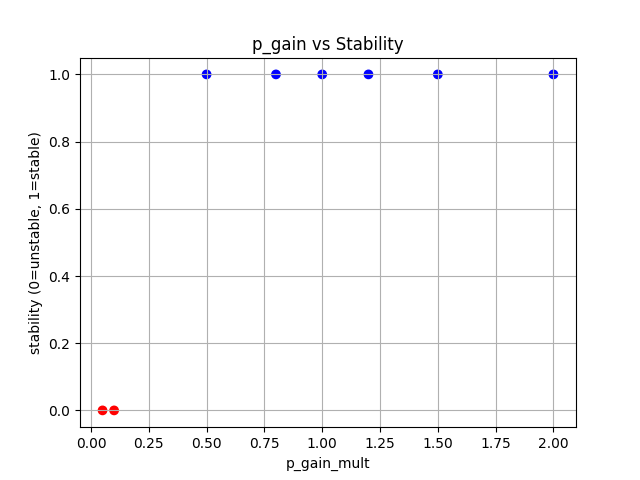
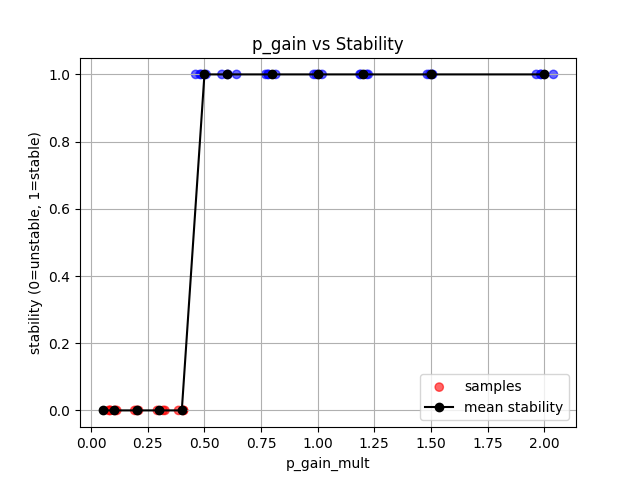
📊 시각화 개선: jitter + 평균선 추가

diff --git a/src/plot_results.py b/src/plot_results.py
@@ -1,21 +1,28 @@
-import pandas as pd
 import matplotlib.pyplot as plt
+import numpy as np
+import pandas as pd
 
-# 데이터 로드
 df = pd.read_csv("data/processed/labels.csv")
 
-# 산점도
-plt.figure()
+x = df["p_gain_mult"]
+y = df["stable"]
 
-# stable=1 파란색, unstable=0 빨간색
-colors = df["stable"].map({1: "blue", 0: "red"})
+# jitter
+x_jitter = x + np.random.normal(0, 0.02, size=len(x))
 
-plt.scatter(df["p_gain_mult"], df["stable"], c=colors)
+# scatter
+colors = y.map({0: "red", 1: "blue"})
+plt.scatter(x_jitter, y, c=colors, alpha=0.6, label="samples")
+
+# 평균선
+grouped = df.groupby("p_gain_mult")["stable"].mean()
+plt.plot(grouped.index, grouped.values, color="black", marker="o", label="mean stability")
 
 plt.xlabel("p_gain_mult")
 plt.ylabel("stability (0=unstable, 1=stable)")
 plt.title("p_gain vs Stability")
 
+plt.legend()
 plt.grid()
 
 plt.savefig("results/plots/p_gain_vs_stability.png")
